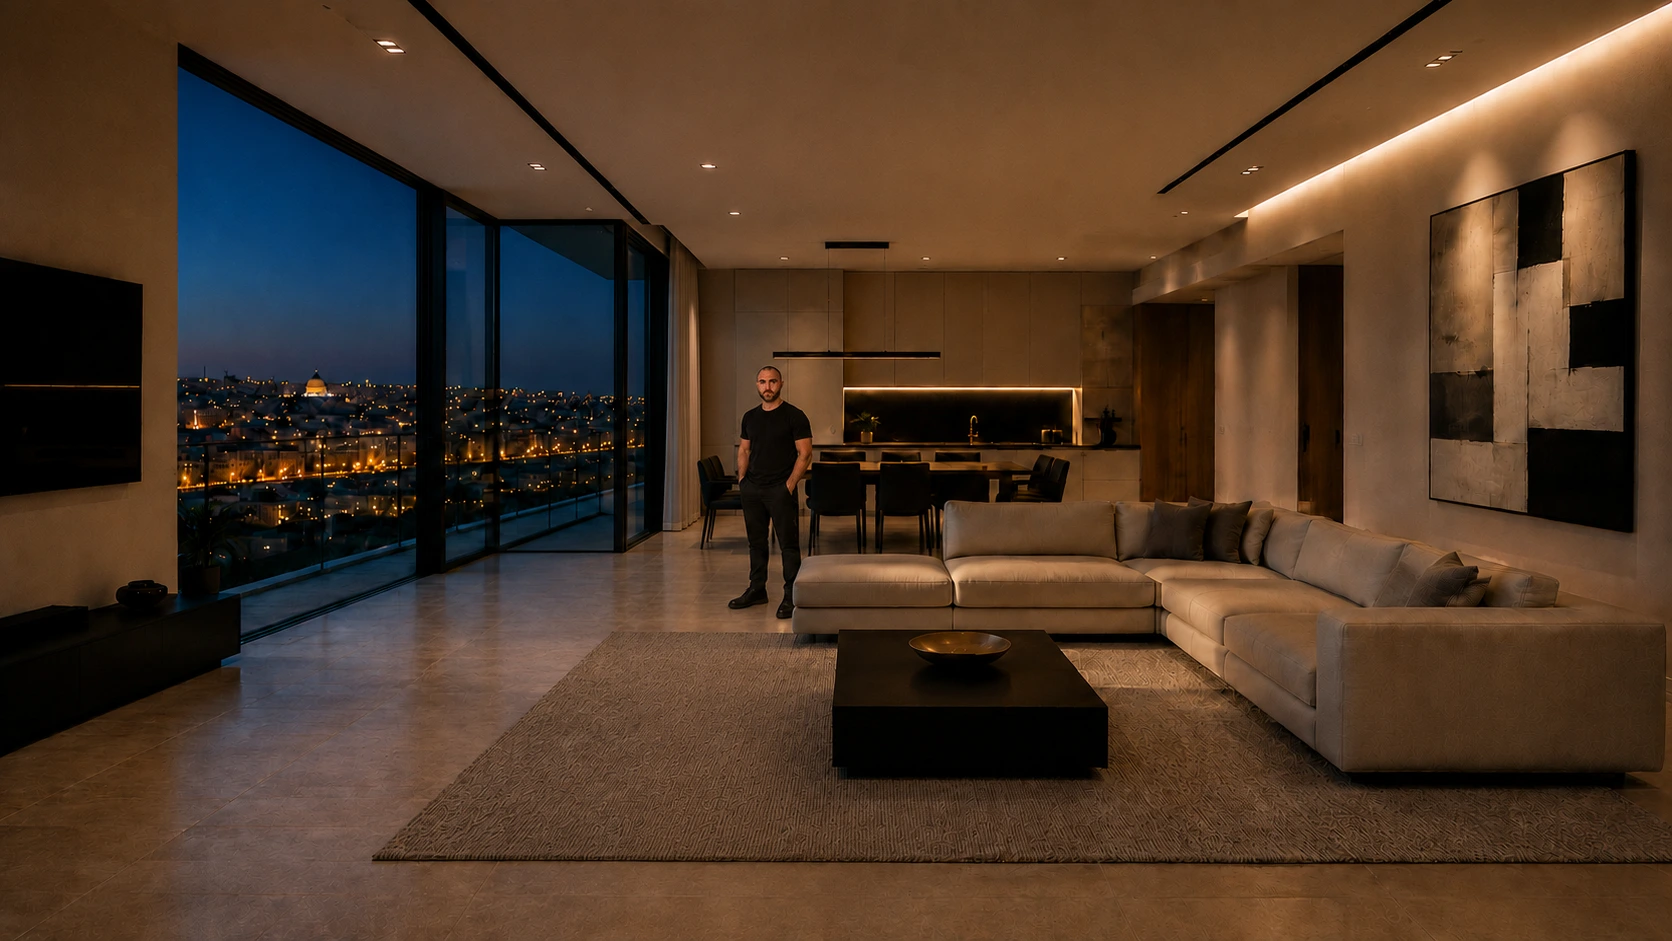
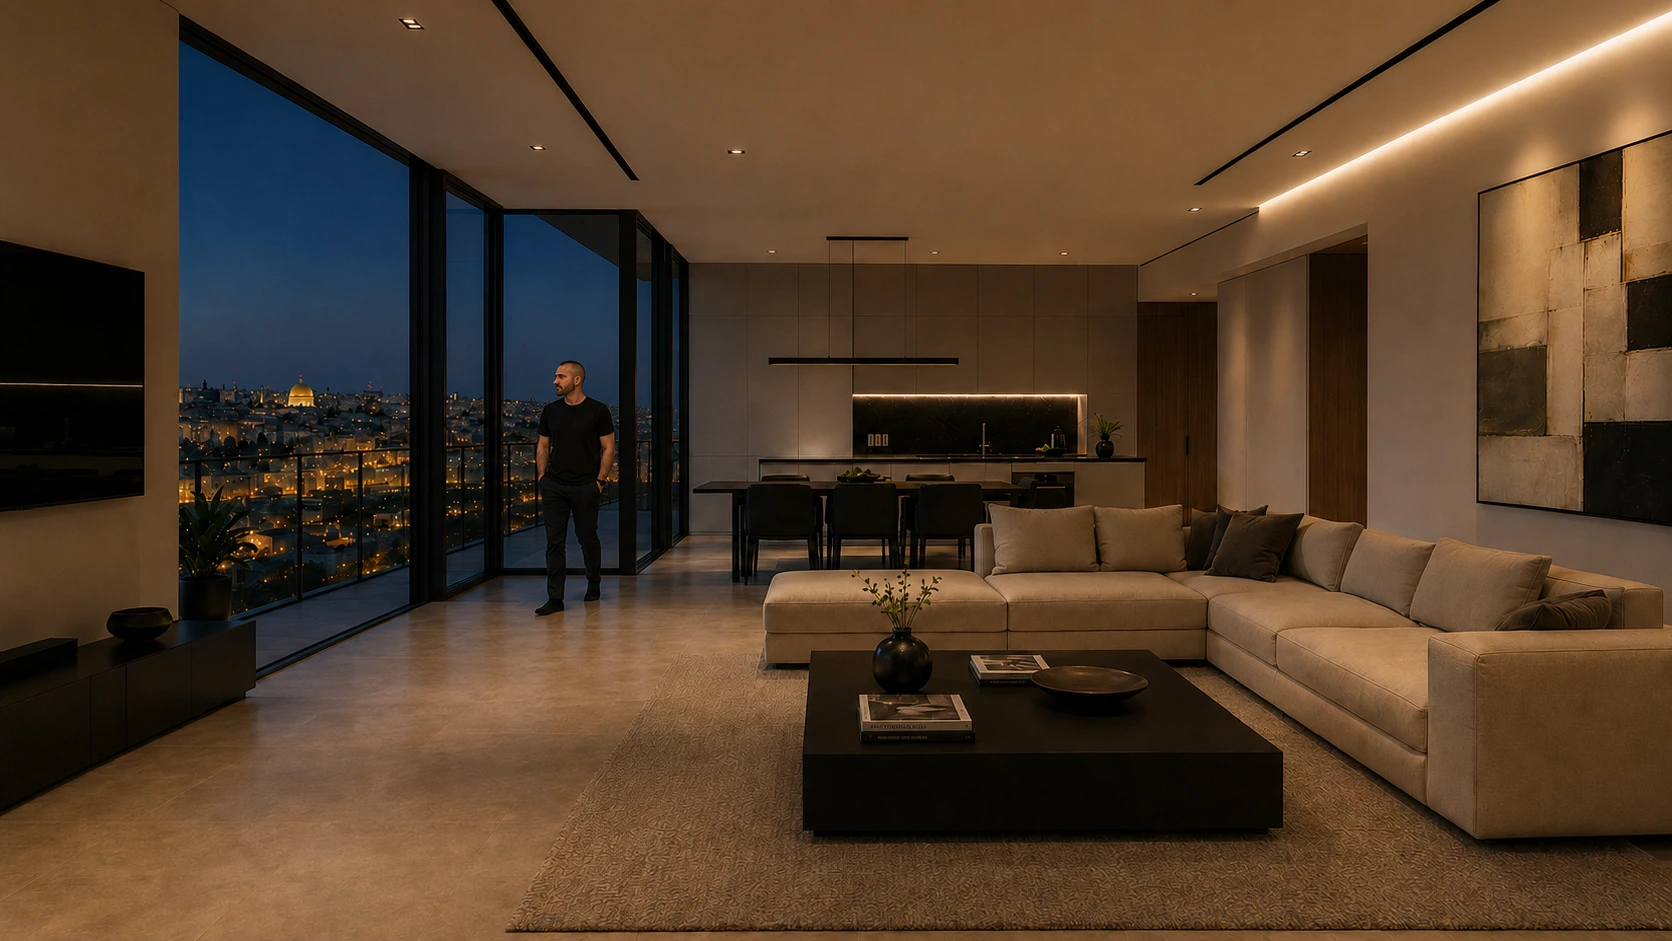
hadmaya2

diff --git a/app/globals.css b/app/globals.css
@@ -6643,7 +6643,7 @@ html[data-a11y-reduce-motion="true"] *::after {
   .simulation-upload-section {
     order: 1 !important;
     display: flex;
-    flex: 1 1 auto;
+    flex: 1 1 0;
     min-height: 0;
     max-height: none;
     border: 1px solid rgb(196 165 116 / 0.24);
@@ -6662,11 +6662,13 @@ html[data-a11y-reduce-motion="true"] *::after {
   .simulation-camera-panel {
     min-height: 0;
     flex: 1;
+    display: flex;
+    flex-direction: column;
   }
 
   .simulation-upload-card {
-    min-height: clamp(52svh, 58svh, 62svh);
     flex: 1;
+    min-height: 0;
     border-width: 1px;
     border-color: rgb(196 165 116 / 0.28);
     border-radius: 0.85rem;
@@ -6674,13 +6676,55 @@ html[data-a11y-reduce-motion="true"] *::after {
     padding: 0.5rem;
   }
 
+  .simulation-upload-card--filled {
+    padding: 0;
+    border: none !important;
+    background: transparent;
+  }
+
+  .simulation-page--camera .simulation-controls {
+    display: none !important;
+  }
+
+  .simulation-page--camera .simulation-upload-section {
+    flex: 1 1 auto;
+    min-height: 0;
+    padding: 0;
+    border: none;
+    border-radius: 0;
+    background: transparent;
+    box-shadow: none;
+    backdrop-filter: none;
+  }
+
+  .simulation-page--camera .simulation-upload-card {
+    flex: 1;
+    min-height: 0;
+    padding: 0;
+    border: none;
+    border-radius: 0;
+    background: transparent;
+  }
+
+  .simulation-page--camera .simulation-mobile-flow {
+    gap: 0;
+    padding: 0;
+  }
+
   .simulation-page--generating .simulation-upload-section {
     flex: 1 1 auto;
     min-height: 0;
+    padding: 0;
+    border: none;
+    border-radius: 0;
+    background: transparent;
+    box-shadow: none;
+    backdrop-filter: none;
   }
 
   .simulation-page--generating .simulation-upload-card {
-    min-height: clamp(64svh, 72svh, 78svh);
+    flex: 1;
+    min-height: 0;
     padding: 0;
     border: none;
     background: transparent;
@@ -6688,6 +6732,11 @@ html[data-a11y-reduce-motion="true"] *::after {
 
   .simulation-page--generating .simulation-controls {
     display: none !important;
+  }
+
+  .simulation-page--generating .simulation-mobile-flow {
+    gap: 0;
+    padding: 0;
   }
 
   .simulation-upload-card p {
@@ -6706,6 +6755,13 @@ html[data-a11y-reduce-motion="true"] *::after {
     flex: 1 1 0;
     min-width: min(100%, 8.5rem);
     border-radius: 999px;
+  }
+
+  .simulation-upload-actions--camera button:first-child {
+    min-height: 3rem;
+    border-color: rgb(196 165 116 / 0.72);
+    background: linear-gradient(180deg, #e8d9c4, #c4a574);
+    color: #17120b;
   }
 
   .simulation-upload-actions .simulation-generate-button {

diff --git a/components/simulation-page.tsx b/components/simulation-page.tsx
@@ -557,38 +557,38 @@ export function SimulationPage({ maxActivations }: { maxActivations: number }) {
   const imagePanel = (
     <section
       aria-label={t("stepImageTitle")}
-      className="simulation-upload-section flex min-h-0 flex-col max-lg:shrink-0 lg:h-full lg:min-h-0"
+      className="simulation-upload-section flex min-h-0 flex-1 flex-col lg:h-full lg:min-h-0"
     >
       <h2 className="simulation-step-title mb-2 text-lg font-semibold text-[var(--color-text)] lg:sr-only">
         {t("stepImageTitle")}
       </h2>
 
       {cameraOpen ? (
-        <div className="simulation-camera-panel relative flex min-h-0 flex-1 flex-col gap-3 lg:min-h-0">
-          <div className="simulation-upload-card relative min-h-[min(52svh,420px)] flex-1 overflow-hidden rounded-2xl bg-black lg:min-h-0 lg:rounded-3xl">
+        <div className="simulation-camera-panel relative flex min-h-0 flex-1 flex-col lg:min-h-0">
+          <div className="simulation-upload-card simulation-upload-card--filled relative flex min-h-0 flex-1 overflow-hidden rounded-2xl bg-black lg:min-h-0 lg:rounded-3xl">
             <video
               ref={videoRef}
-              className="h-full w-full object-cover"
+              className="absolute inset-0 h-full w-full object-cover"
               playsInline
               muted
               autoPlay
             />
-          </div>
-          <div className="simulation-upload-actions flex flex-wrap gap-2 lg:absolute lg:inset-x-4 lg:bottom-4 lg:z-10">
-            <button
-              type="button"
-              onClick={capturePhoto}
-              className="inline-flex min-h-[44px] flex-1 items-center justify-center rounded-full bg-[var(--color-accent)] px-5 text-sm font-semibold text-[var(--color-bg)] shadow-lg"
-            >
-              {t("capturePhoto")}
-            </button>
-            <button
-              type="button"
-              onClick={stopCamera}
-              className="inline-flex min-h-[44px] items-center justify-center rounded-full border border-[var(--color-text)]/25 bg-[var(--color-bg)]/95 px-5 text-sm font-semibold text-[var(--color-text)] backdrop-blur-sm"
-            >
-              {t("cancelCamera")}
-            </button>
+            <div className="simulation-upload-actions simulation-upload-actions--camera absolute inset-x-0 bottom-0 z-10 flex flex-wrap gap-2 bg-gradient-to-t from-black/85 via-black/55 to-transparent px-4 pb-4 pt-14 lg:inset-x-4 lg:bottom-4 lg:bg-transparent lg:p-0">
+              <button
+                type="button"
+                onClick={capturePhoto}
+                className="inline-flex min-h-[3rem] flex-1 items-center justify-center rounded-full border border-[#c4a574]/72 bg-gradient-to-b from-[#e8d9c4] to-[#c4a574] px-5 text-sm font-semibold text-[#17120b] shadow-lg"
+              >
+                {t("capturePhoto")}
+              </button>
+              <button
+                type="button"
+                onClick={stopCamera}
+                className="inline-flex min-h-[2.75rem] flex-1 items-center justify-center rounded-full border border-white/30 bg-black/50 px-5 text-sm font-semibold text-white backdrop-blur-sm"
+              >
+                {t("cancelCamera")}
+              </button>
+            </div>
           </div>
         </div>
       ) : (
@@ -596,9 +596,9 @@ export function SimulationPage({ maxActivations }: { maxActivations: number }) {
           <div
             onDragOver={(e) => e.preventDefault()}
             onDrop={onDrop}
-            className={`simulation-upload-card relative flex min-h-[min(52svh,420px)] flex-1 flex-col overflow-hidden rounded-2xl border-2 transition-colors lg:min-h-0 lg:rounded-3xl ${
+            className={`simulation-upload-card relative flex min-h-0 flex-1 flex-col overflow-hidden rounded-2xl border-2 transition-colors lg:min-h-0 lg:rounded-3xl ${
               imagePreviewUrl
-                ? "border-[var(--color-accent)]/40 bg-zinc-950/90"
+                ? "simulation-upload-card--filled bg-zinc-950/90"
                 : "items-center justify-center gap-4 border-dashed border-[var(--color-text)]/20 bg-[var(--color-bg)]/60 px-6 py-10"
             }`}
           >
@@ -608,7 +608,7 @@ export function SimulationPage({ maxActivations }: { maxActivations: number }) {
                 alt={t("uploadPreviewAlt")}
                 fill
                 unoptimized
-                className="object-contain"
+                className="object-cover lg:object-contain"
                 sizes="(min-width: 1024px) 58vw, 100vw"
                 priority
               />
@@ -711,7 +711,7 @@ export function SimulationPage({ maxActivations }: { maxActivations: number }) {
 
   return (
     <div
-      className={`simulation-page flex min-h-[100dvh] flex-col overflow-visible pt-16 md:h-[100dvh] md:overflow-hidden ${phase === "generating" ? "simulation-page--generating" : ""} ${locale === "en" ? "english-typography-scope" : ""}`}
+      className={`simulation-page flex min-h-[100dvh] flex-col overflow-visible pt-16 md:h-[100dvh] md:overflow-hidden ${phase === "generating" ? "simulation-page--generating" : ""} ${cameraOpen ? "simulation-page--camera" : ""} ${locale === "en" ? "english-typography-scope" : ""}`}
       style={pageBgStyle}
     >
       <header className="simulation-hero shrink-0 border-b border-[color-mix(in_oklab,var(--color-text)_10%,transparent)] px-4 py-3 sm:px-6">